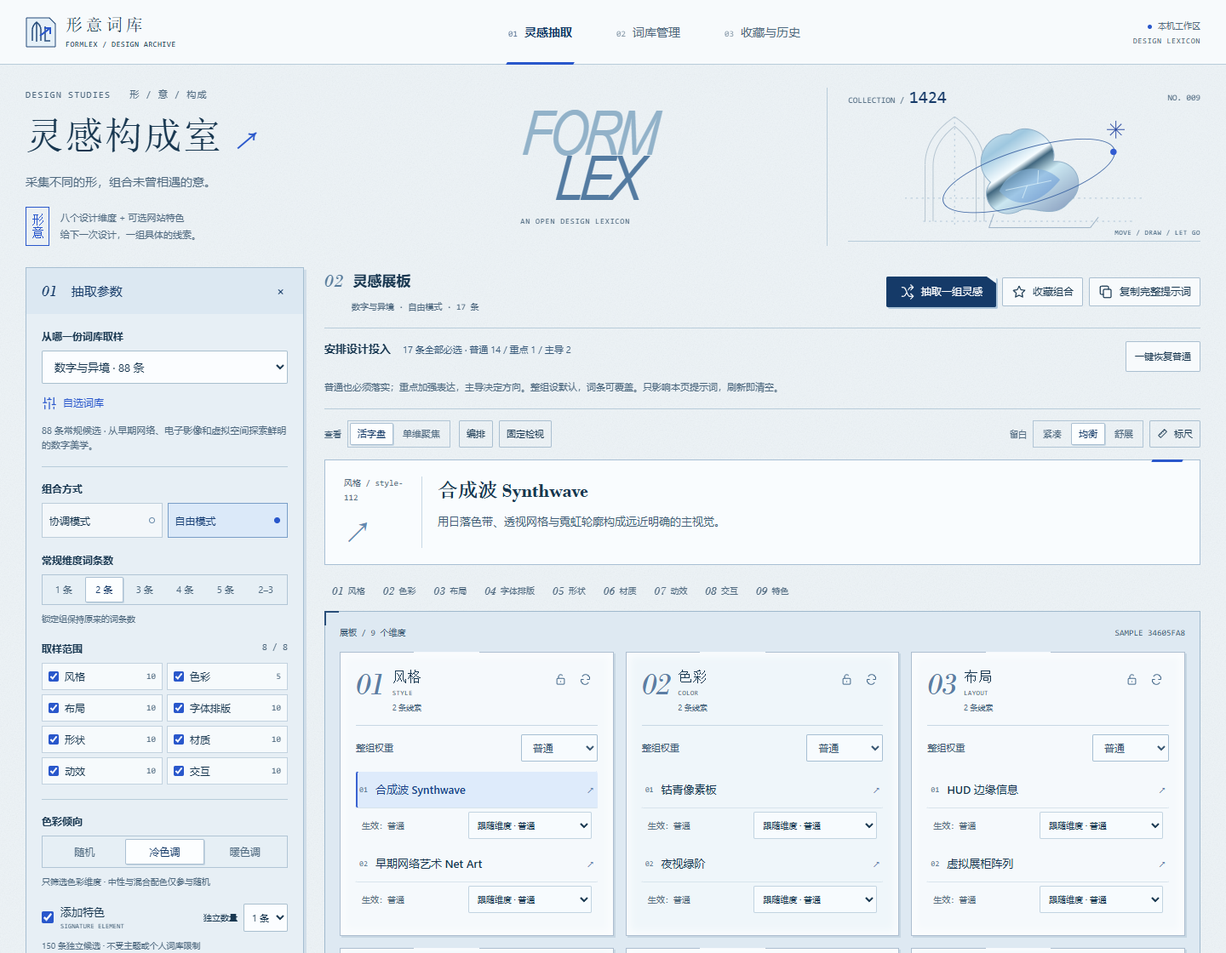
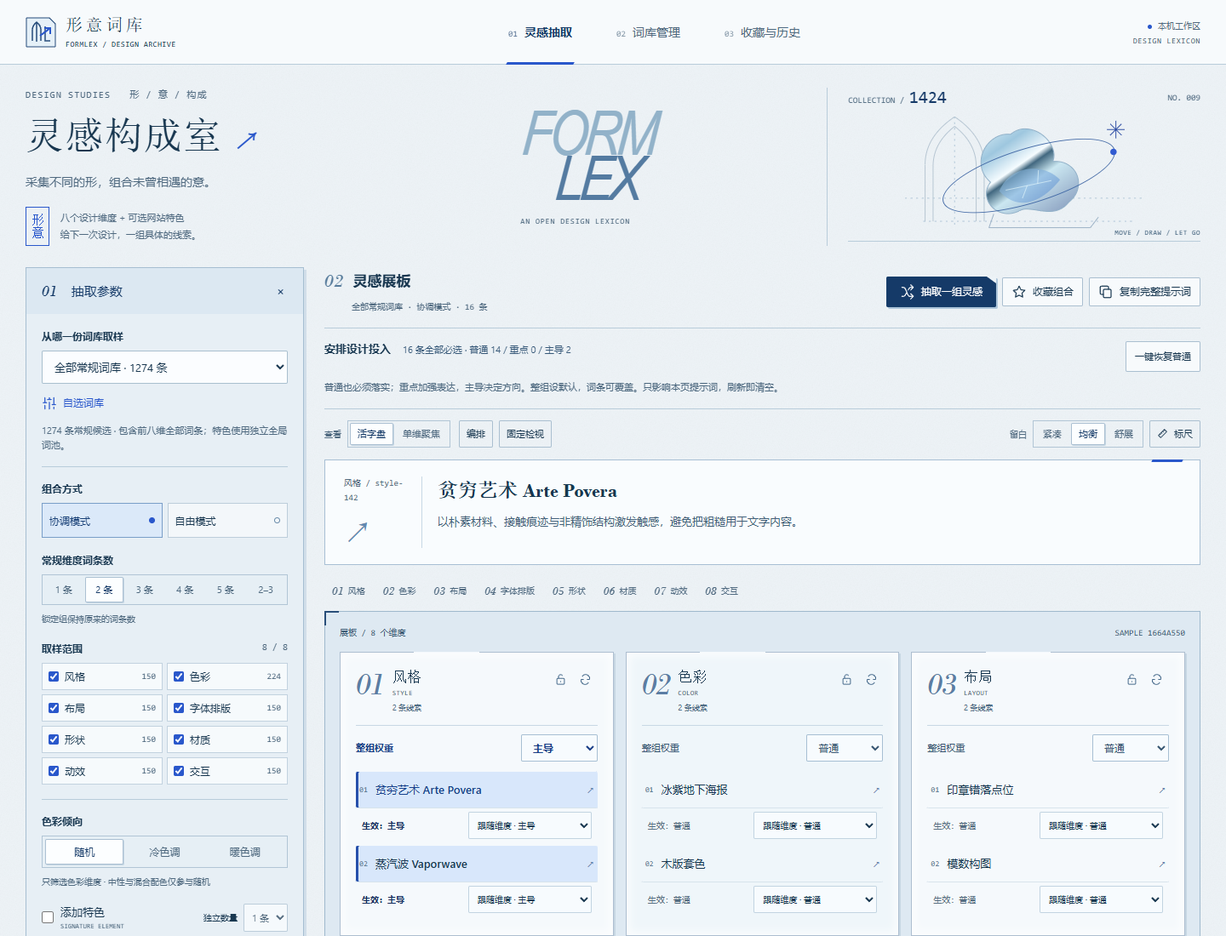
Add user-controlled redesign scope and verifiable design checks

diff --git a/public/index.html b/public/index.html
@@ -48,7 +48,7 @@
             <label class="mode-option"><input type="radio" name="mode" value="coordinated" checked><span><strong>协调模式</strong><small>排除明确互斥</small></span><span class="radio-dot" aria-hidden="true"></span></label>
             <label class="mode-option"><input type="radio" name="mode" value="free"><span><strong>自由模式</strong><small>让不同风格相遇</small></span><span class="radio-dot" aria-hidden="true"></span></label>
           </fieldset>
-          <fieldset class="count-setting"><legend>常规维度词条数</legend><div id="draw-count" class="segmented" role="group" aria-label="每维度词条数"><button type="button" data-count="1" aria-pressed="false">1 条</button><button type="button" data-count="2" aria-pressed="false">2 条</button><button type="button" data-count="3" aria-pressed="false">3 条</button><button type="button" data-count="4" aria-pressed="false">4 条</button><button type="button" data-count="5" aria-pressed="false">5 条</button><button type="button" data-count="random" aria-label="随机 2–3 条" aria-pressed="true">2–3</button></div><p class="control-caption" id="count-caption">各维度独立随机</p></fieldset>
+          <fieldset class="count-setting"><legend>常规维度词条数</legend><div id="draw-count" class="segmented" role="group" aria-label="每维度词条数"><button type="button" data-count="1" aria-pressed="false">1 条</button><button type="button" data-count="2" aria-pressed="true">2 条</button><button type="button" data-count="3" aria-pressed="false">3 条</button><button type="button" data-count="4" aria-pressed="false">4 条</button><button type="button" data-count="5" aria-pressed="false">5 条</button><button type="button" data-count="random" aria-label="随机 2–3 条" aria-pressed="false">2–3</button></div><p class="control-caption" id="count-caption">锁定组保持原来的词条数</p></fieldset>
 
           <fieldset class="dimensions-field"><legend>取样范围 <span id="selected-count">8 / 8</span></legend><div id="dimension-options" class="dimension-options"></div></fieldset>
         </aside>
@@ -56,7 +56,7 @@
           <fieldset class="temperature-setting"><legend>色彩倾向</legend><div id="color-temperature" class="segmented" role="group" aria-label="色彩温度"><button type="button" data-temperature="random" aria-pressed="true">随机</button><button type="button" data-temperature="cool" aria-pressed="false">冷色调</button><button type="button" data-temperature="warm" aria-pressed="false">暖色调</button></div><p class="control-caption">只筛选色彩维度 · 中性与混合配色仅参与随机</p></fieldset>
           <div class="feature-setting"><div class="feature-heading"><label class="feature-toggle"><input id="feature-enabled" type="checkbox" aria-describedby="feature-pool-count"><span>添加特色<small>SIGNATURE ELEMENT</small></span></label><label class="feature-count-label" for="feature-count">独立数量<select id="feature-count" disabled><option value="1">1 条</option><option value="2">2 条</option><option value="3">3 条</option><option value="4">4 条</option><option value="5">5 条</option></select></label></div><p class="control-caption" id="feature-pool-count">150 条独立候选 · 不受主题或个人词库限制</p></div>
         </section>
-        <div class="sampling-route" aria-label="抽取路径预览"><span>词库</span><i aria-hidden="true">→</i><span id="route-dimensions">8 维</span><i aria-hidden="true">→</i><strong id="route-count">16–24 条</strong></div>
+        <div class="sampling-route" aria-label="抽取路径预览"><span>词库</span><i aria-hidden="true">→</i><span id="route-dimensions">8 维</span><i aria-hidden="true">→</i><strong id="route-count">16 条</strong></div>
           <p id="lock-hint" class="control-caption">常规维度随机 2–3 条</p>
         <details class="surface-settings"><summary>表面与色迹 <span>SURFACE LAB</span></summary><label class="texture-control" for="texture-strength">纸面纹理 <output id="texture-value">18%</output><input id="texture-strength" type="range" min="0" max="100" step="1" value="18"></label><div class="trail-controls"><label><input id="trail-enabled" type="checkbox" checked>临时色迹</label><button id="trail-clear" class="text-button" type="button">清空</button></div><div class="trail-presets"><select id="trail-preset" aria-label="预设色迹"><option value="orbit">原子轨道</option><option value="arc">尖拱轮廓</option><option value="wave">流动曲线</option></select><button id="trail-preview" class="button" type="button">绘制</button></div><p id="trail-status" class="control-caption">鼠标轻划留迹；触屏请在顶部试验区绘画。</p></details>
         </div></details>
@@ -69,7 +69,7 @@
           <div id="draw-error" class="error-banner" role="alert" hidden></div>
           <div id="draw-warnings" class="warning-banner" role="status" hidden></div>
           <div class="results-stage"><nav id="dimension-index" class="dimension-index" aria-label="聚焦设计维度"></nav><div class="viewfinder" id="viewfinder" data-framing="overview" data-spacing="balanced"><div class="frame-caption"><span id="frame-caption">展板 / 八个维度</span><span id="sample-id">SAMPLE —</span></div><div id="measure-readout" class="measure-readout" role="status" hidden></div><div id="result-grid" class="result-grid" aria-live="polite"><div class="empty-state"><span data-icon="grid"></span><h3>正在读取本地词库</h3><p>马上开始你的第一次灵感采样。</p></div></div><div class="frame-footnote"><span>点击术语阅读说明；锁定保留整组。</span><span>提示词按权重排序，同档沿用展板顺序；收藏保留原始记录。</span></div></div></div>
-          <section class="output-panel" aria-labelledby="output-title"><div class="output-heading"><div><span class="section-index">03</span><h2 id="output-title">交给 agent</h2><span class="output-caption">THE DESIGN BRIEF</span></div><div class="output-controls"><div class="segmented" role="group" aria-label="输出格式"><button type="button" id="format-prompt" aria-pressed="true">完整提示词</button><button type="button" id="format-text" aria-pressed="false">纯词条</button><button type="button" id="format-json" aria-pressed="false">原始 JSON</button></div><button id="copy-output" class="icon-button" type="button" aria-label="复制当前格式的结果" disabled><span data-icon="copy"></span></button></div></div><div class="brief-task-field"><label for="brief-task">任务与硬约束 <span>可选 · 仅本页</span></label><textarea id="brief-task" rows="3" maxlength="8000" autocomplete="off" aria-describedby="brief-task-hint" placeholder="填写页面用途、所需功能、品牌限制与技术栈；也可留空。"></textarea><p id="brief-task-hint">不填则结合接收对话中的任务。完整提示词包含全部必选、实际落地、冲突询问与验收规则；任务及权重不保存到历史或收藏。</p></div><pre id="output-preview" tabindex="0" aria-label="生成的提示词或原始结果">抽取后，可在这里查看和复制完整设计提示词。</pre><details class="agent-note"><summary>通过 HTTP 获取同一份灵感 <span aria-hidden="true">↗</span></summary><p>与网页共用词库、规则和记录。</p><code>POST /api/draw</code><pre>{"mode":"coordinated"}</pre><p>完整接口示例见项目 README。</p></details></section>
+          <section class="output-panel" aria-labelledby="output-title"><div class="output-heading"><div><span class="section-index">03</span><h2 id="output-title">交给 agent</h2><span class="output-caption">THE DESIGN BRIEF</span></div><div class="output-controls"><div class="segmented" role="group" aria-label="输出格式"><button type="button" id="format-prompt" aria-pressed="true">完整提示词</button><button type="button" id="format-text" aria-pressed="false">纯词条</button><button type="button" id="format-json" aria-pressed="false">原始 JSON</button></div><button id="copy-output" class="icon-button" type="button" aria-label="复制当前格式的结果" disabled><span data-icon="copy"></span></button></div></div><div class="brief-task-field"><label for="brief-task">任务与硬约束 <span>可选 · 仅本页</span></label><textarea id="brief-task" rows="3" maxlength="8000" autocomplete="off" aria-describedby="brief-task-hint" placeholder="填写页面用途、所需功能、品牌限制与技术栈；也可留空。"></textarea><p id="brief-task-hint">不填则结合接收对话中的任务。完整提示词包含全部必选、实际落地、冲突询问与验收规则；任务及权重不保存到历史或收藏。</p></div><section class="brief-scope" aria-labelledby="reconstruction-title"><div class="brief-scope-heading"><h3 id="reconstruction-title">重构强度</h3><button id="reconstruction-clear" class="text-button" type="button" disabled>清除选择</button></div><div id="reconstruction-options" class="reconstruction-options" role="group" aria-labelledby="reconstruction-title" aria-describedby="reconstruction-hint"></div><p id="reconstruction-hint" role="status">未选择时结合接收对话；重构任务仍未明确强度，agent 会先询问。新建页面无需选择。</p><label for="brief-preserve">必须保留 <span>可选 · 仅本页</span></label><textarea id="brief-preserve" rows="2" maxlength="8000" autocomplete="off" aria-describedby="brief-preserve-hint" placeholder="填写必须保留的功能、内容、品牌、技术或界面形式；未指定的旧布局不会自动成为约束。"></textarea><p id="brief-preserve-hint">强度控制修改范围，权重控制词条表达。以上设置只影响完整提示词，刷新后清空。</p></section><pre id="output-preview" tabindex="0" aria-label="生成的提示词或原始结果">抽取后，可在这里查看和复制完整设计提示词。</pre><details class="agent-note"><summary>通过 HTTP 获取同一份灵感 <span aria-hidden="true">↗</span></summary><p>与网页共用词库、规则和记录。</p><code>POST /api/draw</code><pre>{"mode":"coordinated"}</pre><p>完整接口示例见项目 README。</p></details></section>
         </div>
       </div>
     </section>

diff --git a/public/app.js b/public/app.js
@@ -1,4 +1,4 @@
-import { priorities, priority, effectivePriority, retainKeywordPriorities, buildDesignPrompt, buildKeywordText } from './design-rules.mjs';
+import { priorities, priority, effectivePriority, retainKeywordPriorities, buildDesignPrompt, buildKeywordText, reconstructionLevels } from './design-rules.mjs';
 
 const $ = selector => document.querySelector(selector);
 const $$ = selector => [...document.querySelectorAll(selector)];
@@ -22,9 +22,9 @@ const paths = {
 const icon = name => `<svg viewBox="0 0 24 24" fill="none" stroke="currentColor" stroke-width="1.6" stroke-linecap="round" stroke-linejoin="round" aria-hidden="true">${paths[name] ?? paths.grid}</svg>`;
 $$('[data-icon]').forEach(node => { node.innerHTML = icon(node.dataset.icon); });
 
-const state = { catalog: { dimensions: [], keywords: [], libraries: [] }, selected: [], libraryId: 'all', libraryLimit: 80, collectionLimit: 80, collectionSelection: new Set(), collectionBusy: false, mode: 'coordinated', countPerDimension: 'random', locked: {}, result: null,
+const state = { catalog: { dimensions: [], keywords: [], libraries: [] }, selected: [], libraryId: 'all', libraryLimit: 80, collectionLimit: 80, collectionSelection: new Set(), collectionBusy: false, mode: 'coordinated', countPerDimension: 2, locked: {}, result: null,
   history: [], favorites: [], view: 'draw', recordKind: 'favorites', format: 'prompt', busy: false, featureCount: 1, colorTemperature: 'random',
-  brief: { task: '', dimensionPriorities: {}, keywordPriorities: {} },
+  brief: { task: '', reconstruction: '', preserve: '', dimensionPriorities: {}, keywordPriorities: {} },
   editing: null, conflictSelection: new Set(), detail: null, framing: 'overview', focusDimension: 'style', spacing: 'balanced', measuring: false,
   boardOrder: [], curating: false, activeKeyword: null, inspecting: false, pendingDraw: null, pendingCount: 0 };
 const dim = id => state.catalog.dimensions.find(d => d.id === id);
@@ -37,6 +37,8 @@ const currentPrompt = () => buildDesignPrompt(state.result, state.catalog.dimens
 const priorityOptions = () => priorities.map(p => `<option value="${p.id}">${p.name}</option>`).join('');
 // Draft requirements and priorities are intentionally separate from saved records and browser storage.
 $('#brief-task').value = '';
+$('#brief-preserve').value = '';
+$('#reconstruction-options').innerHTML = reconstructionLevels.map(level => `<button type="button" data-reconstruction="${level.id}" aria-pressed="false"><strong>${level.name}</strong><span>${level.summary}</span></button>`).join('');
 const modeName = mode => mode === 'coordinated' ? '协调模式' : '自由模式';
 const temperatureName = value => ({ random: '随机（不限冷暖）', cool: '冷色调', warm: '暖色调', neutral: '中性', mixed: '混合', unspecified: '未分类' })[value ?? 'unspecified'];
 const regularDimensions = () => state.catalog.dimensions.filter(d => d.id !== 'feature');
@@ -465,6 +467,16 @@ on('#copy-text', 'click', () => copy(currentPrompt()));
 on('#copy-output', 'click', () => copy($('#output-preview').textContent));
 for (const format of ['prompt', 'text', 'json']) on(`#format-${format}`, 'click', () => { state.format = format; renderOutput(); });
 on('#brief-task', 'input', () => { state.brief.task = $('#brief-task').value; renderOutput(); });
+on('#brief-preserve', 'input', () => { state.brief.preserve = $('#brief-preserve').value; renderOutput(); });
+function setReconstruction(value) {
+  state.brief.reconstruction = value;
+  $$('[data-reconstruction]').forEach(button => button.setAttribute('aria-pressed', String(button.dataset.reconstruction === value)));
+  $('#reconstruction-clear').disabled = !value;
+  $('#reconstruction-hint').textContent = reconstructionLevels.find(level => level.id === value)?.rule ?? '未选择时结合接收对话；重构任务仍未明确强度，agent 会先询问。新建页面无需选择。';
+  renderOutput();
+}
+on('#reconstruction-options', 'click', event => { const button = event.target.closest('[data-reconstruction]'); if (button) setReconstruction(button.dataset.reconstruction); });
+on('#reconstruction-clear', 'click', () => setReconstruction(''));
 on('#priority-reset', 'click', () => {
   state.brief.dimensionPriorities = {}; state.brief.keywordPriorities = {};
   renderPriorities(); renderOutput(); toast('全部恢复普通，所有词条仍须落实');
@@ -542,7 +554,7 @@ async function registerBrowserTools() {
   const idMap = { type: 'object', additionalProperties: { anyOf: [{ type: 'string' }, { type: 'array', items: { type: 'string' }, minItems: 1, maxItems: 5, uniqueItems: true }] } };
   const definitions = [
     { name: 'read_design_catalog', description: '读取八个常规维度、独立特色池、色温分类及显式互斥关系。', inputSchema: { type: 'object', properties: {}, additionalProperties: false }, annotations: { readOnlyHint: true, untrustedContentHint: true }, execute: () => api('/api/catalog') },
-    { name: 'draw_design_inspiration', description: '默认抽取八维，每维度 1–5 条或随机 2–3 条；显式添加 feature 从独立池取 featureCount 条。colorTemperature 严格筛选色彩，成功保存到历史并更新网页。锁定整组保留。', inputSchema: { type: 'object', properties: { libraryId: { type: 'string' }, dimensions: { type: 'array', items: { type: 'string', enum: state.catalog.dimensions.map(d => d.id) }, minItems: 1, maxItems: 9, uniqueItems: true }, mode: { type: 'string', enum: ['coordinated', 'free'] }, countPerDimension: { enum: ['random', 1, 2, 3, 4, 5] }, featureCount: { type: 'integer', minimum: 1, maximum: 5, default: 1 }, colorTemperature: { type: 'string', enum: ['random', 'cool', 'warm'], default: 'random' }, locked: idMap, current: idMap }, additionalProperties: false }, annotations: { readOnlyHint: false, untrustedContentHint: true }, execute: input => performDraw(input, { tool: true }) },
+    { name: 'draw_design_inspiration', description: '默认抽取八维，每维 2 条，共 16 条；可选每维度 1–5 条或随机 2–3 条。显式添加 feature 从独立池取 featureCount 条。colorTemperature 严格筛选色彩，成功保存到历史并更新网页。锁定整组保留。', inputSchema: { type: 'object', properties: { libraryId: { type: 'string' }, dimensions: { type: 'array', items: { type: 'string', enum: state.catalog.dimensions.map(d => d.id) }, minItems: 1, maxItems: 9, uniqueItems: true }, mode: { type: 'string', enum: ['coordinated', 'free'] }, countPerDimension: { enum: ['random', 1, 2, 3, 4, 5], default: 2 }, featureCount: { type: 'integer', minimum: 1, maximum: 5, default: 1 }, colorTemperature: { type: 'string', enum: ['random', 'cool', 'warm'], default: 'random' }, locked: idMap, current: idMap }, additionalProperties: false }, annotations: { readOnlyHint: false, untrustedContentHint: true }, execute: input => performDraw(input, { tool: true }) },
   ];
   for (const definition of definitions) { try { await document.modelContext.registerTool(definition, { signal: lifecycle.signal }); } catch (error) { console.warn('浏览器工具注册不可用；HTTP 接口不受影响。', error); } }
 }
@@ -556,7 +568,7 @@ async function init() {
     try {
       state.libraryId = localStorage.getItem('formlex.libraryId') ?? 'all';
       const savedCount = localStorage.getItem('formlex.countPerDimension');
-      state.countPerDimension = ['1','2','3','4','5'].includes(savedCount) ? Number(savedCount) : 'random';
+      state.countPerDimension = ['1','2','3','4','5'].includes(savedCount) ? Number(savedCount) : savedCount === 'random' ? 'random' : 2;
       if (localStorage.getItem('formlex.featureEnabled') === 'true') state.selected.push('feature');
       const featureCount = localStorage.getItem('formlex.featureCount');
       state.featureCount = ['1','2','3','4','5'].includes(featureCount) ? Number(featureCount) : 1;

diff --git a/public/style.css b/public/style.css
@@ -30,3 +30,4 @@ dialog{padding:26px;border:1px solid #809fb9;border-radius:2px;width:min(710px,c
 
 .priority-guide{display:grid;grid-template-columns:minmax(0,1fr) auto;gap:8px 15px;padding:15px 0;border-bottom:1px solid var(--line)}.priority-guide>div{display:flex;align-items:baseline;flex-wrap:wrap;gap:7px 14px}.priority-guide strong{font-size:13px}.priority-guide p{grid-column:1/-1;font-size:11px;line-height:1.8;color:#49657c}.priority-guide .button{font-size:11px;padding:5px 10px;align-self:start}#priority-summary{font-size:11px;line-height:1.7;color:#365878}.dimension-priority-control{display:flex;align-items:center;justify-content:space-between;gap:10px;margin:0 0 12px;font-size:11px;color:#365571}.dimension-priority-control select{min-height:32px;padding:4px 9px;width:90px;font-size:12px;border-color:#a7bfd3;background:#f7fbfe}.term-priority-control{display:grid;grid-template-columns:minmax(0,1fr) minmax(95px,145px);align-items:center;gap:6px;padding:4px 7px 8px}.term-priority-control select{width:100%;min-width:0;min-height:32px;padding:4px 6px;font-size:10px;background:#f7fbfe;border-color:#c2d4e1}.effective-priority{font-size:10px;line-height:1.6;overflow-wrap:anywhere;color:#536c80}.keyword-term[data-priority=emphasis] .effective-priority{color:#254fa8}.keyword-term[data-priority=dominant] .effective-priority{color:#162e60;font-weight:700}.keyword-term[data-priority=emphasis] .term-slot{background:#e8f1fc}.keyword-term[data-priority=dominant] .term-slot{background:#d8e7fb;box-shadow:inset 3px 0 #244eaa}.result-card[data-priority=dominant] .dimension-priority-control{font-weight:700;color:#173c86}.viewfinder[data-framing=focus] .term-priority-control{max-width:330px;margin-left:20px}.viewfinder[data-framing=focus] .dimension-priority-control{justify-content:flex-start}.brief-task-field{padding:16px 19px;border-bottom:1px solid #c1d3e0}.brief-task-field label{display:flex;align-items:baseline;gap:10px;flex-wrap:wrap;margin-bottom:9px;font-size:13px;font-weight:600}.brief-task-field label span{font-size:10px;color:var(--muted);font-weight:400}.brief-task-field textarea{width:100%;resize:vertical;min-height:85px;font-size:13px;line-height:1.7;background:#fff}.brief-task-field p{font-size:11px;color:#49657c;line-height:1.8;margin-top:8px}.output-heading{flex-wrap:wrap}.output-controls{min-width:0;max-width:100%}.output-controls .segmented{min-width:0;flex-wrap:wrap}.output-controls .segmented button{white-space:nowrap}.output-heading>div{flex-wrap:wrap}
 @media(max-width:680px){.priority-guide{gap:8px}.priority-guide>div{display:block}.priority-guide strong{display:block;margin-bottom:4px}.dimension-priority-control select,.term-priority-control select{min-height:36px}.term-priority-control{grid-template-columns:minmax(0,1fr) minmax(110px,160px)}.term-priority-control select{font-size:11px}.effective-priority{font-size:11px}.brief-task-field{padding:14px}.output-controls{width:100%;justify-content:space-between}.viewfinder[data-framing=focus] .term-priority-control{margin-left:0}.output-controls .segmented button{font-size:11px;padding:7px 9px}}
+.brief-scope{padding:16px 19px;border-bottom:1px solid #c1d3e0}.brief-scope-heading{display:flex;align-items:center;justify-content:space-between;gap:12px;margin-bottom:10px}.brief-scope-heading h3{font-size:13px;font-weight:600}.reconstruction-options{display:grid;grid-template-columns:repeat(4,minmax(0,1fr));gap:8px}.reconstruction-options button{min-width:0;min-height:70px;text-align:left;padding:11px;border:1px solid #b7ccdc;background:#f2f7fb;color:#365571}.reconstruction-options strong{display:block;font-size:13px;line-height:1.6}.reconstruction-options span{display:block;font-size:10px;line-height:1.7;margin-top:3px}.reconstruction-options button:hover{background:#e5eef9;border-color:#6487ae}.reconstruction-options button[aria-pressed=true]{color:#183a76;background:#dce9fc;border-color:#2957a4;box-shadow:inset 3px 0 #2957a4}.brief-scope p{font-size:11px;line-height:1.8;color:#49657c;margin-top:9px}.brief-scope label{display:flex;align-items:baseline;gap:10px;font-size:13px;font-weight:600;margin:17px 0 9px}.brief-scope label span{font-size:10px;font-weight:400;color:var(--muted)}.brief-scope textarea{width:100%;min-height:65px;resize:vertical;font-size:13px;line-height:1.7;background:#fff}@media(max-width:680px){.brief-scope{padding:14px}.reconstruction-options{grid-template-columns:repeat(2,minmax(0,1fr))}.reconstruction-options button{min-height:74px}}

diff --git a/plugins/formlex/skills/formlex-design/SKILL.md b/plugins/formlex/skills/formlex-design/SKILL.md
@@ -5,7 +5,7 @@ description: "使用 FormLex 的专业美术词库探索、设计或重构前端
 
 # FormLex 前端设计
 
-将完整的设计输入落实到前端，权重决定表现强弱。已有页面默认追求布局、排版、配色和形状上的明显变化；用户明确的品牌、技术、业务功能与修改范围优先。
+将完整的设计输入落实到前端，权重决定表现强弱。已有页面按用户指定的重构强度实施；用户明确的品牌、技术、业务功能与修改范围优先。
 
 ## 获取并保留完整输入
 
@@ -16,7 +16,7 @@ description: "使用 FormLex 的专业美术词库探索、设计或重构前端
 没有现成词条时，需要 Node.js 22+，无需 npm install。以本 SKILL.md 的实际位置找到 `../../runtime/cli.mjs`，解析成绝对路径再调用。参数文件放在当前任务允许的临时目录，使用 UTF-8 并在结束后清理，不在插件安装目录写入文件。
 
 1. `node "<插件根目录>/runtime/cli.mjs" libraries` 获取主题、维度与候选数量摘要，根据任务选择范围。
-2. `node "<插件根目录>/runtime/cli.mjs" draw --input "<参数文件>"` 获取一组词条，以首次成功结果作为完整要求。默认原八维、协调模式、每维随机 2–3 条、色温随机、特色关闭。没有设置权重时全部按普通处理。
+2. `node "<插件根目录>/runtime/cli.mjs" draw --input "<参数文件>"` 获取一组词条，以首次成功结果作为完整要求。默认原八维、协调模式、每维 2 条共 16 条、色温随机、特色关闭。没有设置权重时全部按普通处理。
 3. 需要解释概念或查询实现方向时，用 `search --input "<参数文件>"` 限量查询（通常 limit=8），不以新词替换原结果，不把完整 seed 词库读入上下文。
 
 完整参数见 [CLI 参考](../../docs/cli.md)。特色按任务需要显式加入 dimensions 的 feature，独立 featureCount=1–5，默认 1。协调模式只排除显式互斥，不保证语义上的所有要求都兼容。
@@ -24,6 +24,21 @@ description: "使用 FormLex 的专业美术词库探索、设计或重构前端
 默认 builtin 离线运行且不保存历史。只有用户明确需要个人词库、编辑词条或历史同步时，添加 `--source workspace`，必要时用用户提供的本机 `--url`。连接失败不静默退回 builtin、不自行启动常驻服务；MCP 保持可选。抽取错误时保留已有输入和条件；historySaved=null 时先检查工作台历史，避免重复提交。
 
 <!-- 以下执行规则由 public/design-rules.mjs 生成，与网页完整提示词共用。 -->
+## 重构强度与保留范围
+
+局部打磨：保留整体结构，改进用户指定区域的字阶、间距、配色和状态，不擅自扩大修改范围。
+视觉重做：保留内容组织，重新设计字体、配色、组件形态、材质和动效，形成完整的视觉变化。
+结构重构：重新设计信息分组、主辅关系、导航呈现、阅读路径和页面布局，需要可辨识的结构变化。
+重新设计：以现有页面提供的功能和内容为依据，从任务与设计词条重新构建界面；不默认沿用原有页面骨架或组件组合。
+
+重构强度由用户决定。对话或提示词已经明确时直接执行，不重复确认；仍未明确时先询问，不自行选择档位或降低已选强度。新建页面任务按用户需求设计，无需套用重构强度。
+
+保留功能能力、数据含义和用户明确的品牌、技术及界面约束。仅将用户明确指定的界面形式列为必须保留；已有布局、侧栏、卡片组合或阅读顺序不因已经存在就自动受到保护。
+
+结构重构与重新设计先确定新的内容组织、阅读路径和页面骨架，再安排视觉细节。仅换色、换字体、增加背景和装饰不能通过结构重构的验收。对照原页面检查结构与视觉关系是否达到所选强度。
+
+每档强度均需落实全部词条。强度、必须保留范围与词条要求无法同时满足时，明确冲突并询问用户，不擅自扩大范围、降低强度或丢弃要求。
+
 ## 全部必选与权重
 
 本组全部词条都是必须落实的设计要求，除非用户明确允许取舍。权重只决定表现强度与设计投入，不改变抽取概率，也不把普通词条变成可选项。禁止先剔除难项，再把剩余词条定义为核心；禁止反复重抽规避难项。
@@ -36,7 +51,9 @@ description: "使用 FormLex 的专业美术词库探索、设计或重构前端
 
 按用户任务判断交付范围：要求构建、修改或重构时完成代码与效果检查，不停在设计简报；只要灵感或方案时仅输出方案，不修改代码。保留业务功能、内容含义及用户明确的品牌、技术和范围约束。
 
-优化已有页面默认追求布局、排版、配色和形状上的明显变化，同时服从用户明确的局部修改或轻量调整范围；先确定内容组织与操作方式，再安排材质和装饰，不仅更换主题色。
+先按页面用途确定核心信息、主要操作与辅助内容的优先级，再分配设计词条。主导词条优先服务真正重要的信息和操作，重点词条强化其相关内容；不能因为次要统计、贴纸或角落更方便制作效果，就把主导表达分配给它们，而让核心内容停留在弱层级。遵循用户明确指定的作用范围。
+
+按用户指定的重构强度安排设计投入，先确定内容组织与操作方式，再安排材质和装饰；实现变化须符合所选强度与必须保留范围。
 
 实现前逐条安排「词条 → 应用区域或状态 → 可感知特征 → 完成标准」。主次表示表达强弱，不表示是否需要实现；多个风格或效果可分配到不同区域、层级与状态。先验证困难的结构和交互，再完成内容与视觉修饰。
 
@@ -58,7 +75,13 @@ description: "使用 FormLex 的专业美术词库探索、设计或重构前端
 
 ## 逐词验收
 
+实现任务交付时提供可核查的逐词对应表：「词条 → 实际页面位置 → 如何触发或观察 → 验证结果」。位置写明页面、区域或状态，观察方式给出可复现的操作，结果区分已验证、未验证与待用户决定。代码路径可辅助定位，不能代替实际效果证据。仅方案任务提供拟应用位置和验证方法，明确尚未实现。
+
 交付前逐条核对实际产物。视觉特征结合真实截图和渲染布局检查；交互、动效需要实际触发并观察变化。代码中出现关键词、CSS 类名或效果名称，不足以证明完成。
+
+明确页面最重要的信息与主要操作，对照实际视觉重心检查：醒目的位置、大小、明暗与动效是否服务这些任务，主导词条是否分配给了重要内容。若装饰或次要统计抢走焦点，重新分配主导表达并调整应用位置、强度和层级，同时保留词条的可辨识表达。
+
+分别核查主导与重点词条的实际地位。主导应在用户指定的作用范围、主要区域或核心体验中明显决定构图、排版、视觉语言或交互方式，不能仅藏在角落徽章或背景彩蛋中；重点应获得充分表达。多个主导明确分工，不要求争夺同一个焦点。若普通词条实际压过主导，应调整层级，不能只在验收说明中声称主导。
 
 例如，液态金属应有可辨识的金属反射与流体形态；词条要求流动时需实际动态及减少动态替代，仅写“液态金属”标签或使用普通灰色底色不合格。可拖拽画布需验证拖动真实改变视图或对象位置，不能只增加拖拽图标。
 
@@ -68,4 +91,4 @@ description: "使用 FormLex 的专业美术词库探索、设计或重构前端
 
 ## 执行与交付
 
-实现任务中用简短进度说明明确整组词条的应用分工，然后继续代码与验证。无需为正常的设计编排增加审批；遇到上述无法兼容的冲突时必须询问并等待相关决定。只要方案时到方案交付为止。提供可用的预览或文件链接，逐词检查结果，不用文字说明替代实际实现。
+实现任务中用简短进度说明明确整组词条的应用分工，然后继续代码与验证。无需为正常的设计编排增加审批；遇到上述无法兼容的冲突时必须询问并等待相关决定。只要方案时到方案交付为止。提供可用的预览或文件链接及逐词核查表，检查视觉重心是否符合页面主要任务、主导词条是否实际决定设计，不用文字说明替代实现。

diff --git a/docs/plugin-validation.md b/docs/plugin-validation.md
@@ -1,6 +1,6 @@
 # 插件验证范围
 
-插件与项目版本为 1.5.1；HTTP API v4、种子版本 4、1,424 条词库及用户数据格式保持兼容。
+插件与项目版本为 1.6.0；HTTP API v4、种子版本 4、1,424 条词库及用户数据格式保持兼容。
 
 ## 自动验证
 
@@ -8,11 +8,11 @@
 
 1. 从主项目源码生成插件运行副本，将网页共用执行规则嵌入 Skill，再逐文件比较内容。
 2. 生成 ZIP 并解压到临时目录，以解压版作为独立 CLI 的测试来源。
-3. 运行 37 项 Node 内置测试，包括原有 26 项、6 项插件测试及 5 项提示词编排测试。文本输出检查全部名称与说明保留、内部 ID 和抽取元数据省略、设计数值不丢失、原始快照不变。
+3. 运行 38 项 Node 内置测试，包括原有 26 项、6 项插件测试及 6 项提示词编排测试。文本输出检查全部名称与说明保留、内部 ID 和抽取元数据省略、设计数值不丢失、原始快照不变，并验证四档强度仅展开所选要求、保留范围原样带入和未指定时不默认选档。
 4. 检查所有插件文件前后 SHA-256，确认执行过程没有写入安装目录；子进程设置超时，测试服务使用临时数据并关闭。
 5. 检查成功后才替换交付 ZIP，清理临时目录，打印 `DONE`。
 
-验证覆盖默认八维、随机 2–3 条、全部主题冷暖范围、独立特色 1–5 条、锁定与单维重抽、显式冲突与自由模式、失效 ID、UTF-8/BOM/超大文件、工作台的个人词库与编辑词条、HTTP/MCP 查询一致性、共享历史、保存失败、快照稳定及连接中断的未知保存状态。原有测试继续覆盖空库、无组合、搜索上限、迁移和重启。
+验证覆盖默认八维各 2 条共 16 条、显式随机 2–3 条、全部主题冷暖范围、独立特色 1–5 条、锁定与单维重抽、显式冲突与自由模式、失效 ID、UTF-8/BOM/超大文件、工作台的个人词库与编辑词条、HTTP/MCP 查询一致性、共享历史、保存失败、快照稳定及连接中断的未知保存状态。原有测试继续覆盖空库、无组合、搜索上限、迁移和重启。
 
 发布时另用 Codex 的 plugin-creator 校验器检查插件清单与资源，用 skill-creator 校验器检查 Skill 格式。插件无自动 MCP 配置、没有个人数据或本机用户路径，资源路径均位于插件内部。
 
@@ -22,14 +22,17 @@
 
 | 用户请求 | 应采取的路径 | 已核对的边界 |
 | --- | --- | --- |
-| “大胆重构当前前端，保留业务功能” | 读取项目及现状 → 使用整组词条 → 分配各条应用区域 → 改布局/排版等主要视觉结构 → 实现和检查。 | 设计与实现规则明确要求完成实现；正常编排不产生额外审批；业务流程、路由和数据含义保留。 |
+| “按结构重构当前前端，保留业务功能” | 读取项目及现状 → 使用整组词条 → 重组信息、导航与布局 → 实现并对照原页面检查。 | 用户已经指定强度，直接执行；保留功能能力与数据含义，不自动保留原有侧栏和卡片组合。 |
+| “优化这个页面”，未说明重构强度 | 先确认局部打磨、视觉重做、结构重构或重新设计；可继续读取现状和需求。 | 不自行选择保守或激进档位，不将未答复视为同意；新建页面不强制选择重构强度。 |
 | “只给三个方案，不改代码” | 按需查询与抽取，为三个方向分别给出配色、布局、字阶与应用区域。 | 只输出设计简报，代码不修改；不因 Skill 的默认实现工作流越过用户范围。 |
-| “必须保留品牌蓝 #1246A0、现有字体与 React” | 将品牌与技术作为硬约束，通过构图、留白和层级建立变化；已有词条确实无法兼容时主动询问。 | 明确的品牌、技术与局部范围保留，不能用随机结果覆盖或静默丢弃冲突项。 |
+| “必须保留品牌蓝 #1246A0、现有字体与 React” | 明确重构强度，在品牌、技术及保留范围内编排；词条确实无法兼容时主动询问。 | 明确的品牌、技术与局部范围保留，不能用随机结果覆盖或静默丢弃冲突项。 |
 | “液态金属会影响清晰，所以删掉” | 尝试把效果放在选中徽记或限定区域，保留可辨识的反射与流体形态。 | 清晰度是实现约束，不能单独作为删除理由；只放“液态金属”文字不合格。 |
 | “可拖拽画布只放一个拖拽图标” | 验证真实拖动改变视图或对象位置，并提供等效键盘操作。 | 图标、文案、CSS 类名都不能作为实际交互完成证据。 |
 | “多个主导风格同时出现” | 分配到不同区域、层级或状态，逐条保留可识别表达。 | 可以兼容时继续实现，不仅因为难做就要求用户删词。 |
 | “全站只能黑白，又要求全站饱和多彩” | 说明同一全局范围的具体冲突与可选调整方案，主动询问用户。 | 未答复不表示同意；保留要求、继续无关工作，不擅自删除或宣称全部完成。 |
 | “将术语变成游戏名称即可” | 保留游戏内容含义，落实真实的视觉、排版、材质或行为。 | 出现在产品文案里本身不算落实；排版类词条要改变实际字形、字阶或编排。 |
+| “主导风格只出现在角落贴纸里” | 对照指定作用范围和主要区域，调整构图、视觉语言或核心交互，核查实际主导地位。 | 普通词条抢占焦点时调整层级，不只在交付文字中声称主导。 |
+| “错误详情页中记录数量比错误原因更醒目” | 明确主要任务，对照实际视觉重心，调整位置、强度和层级，同时保留词条表达。 | 可辨识的术语表达还须服务页面的信息和操作重点。 |
 
 以上路径均按需查询摘要与少量术语，不把完整词库注入上下文。鼠标、持续动效及三维线索需要对应触控、静态或减少动态替代。纯后端及非视觉修复不进入该 Skill。
 
@@ -38,6 +41,8 @@
 浏览器回归覆盖三档维度权重、词条继承与单独覆盖、恢复跟随、单维重抽保留其他项、新词继承、一键恢复普通、完整提示词与纯词条及原始 JSON、剪贴板失败回退、记录页不带当前草稿、收藏和历史不受影响、任务与权重不写浏览器存储、刷新清空、键盘操作及 320–1440 像素布局。
 
 使用 41 条实际抽取结果检查完整提示词、纯词条和记录页复制：保留全部名称与说明、有效权重及设计数值，省略抽取元数据与内部 ID；原始 JSON 保持完整。自动复制不可用时，手动复制框内容与预览一致。
+
+四档按钮与必须保留输入另验：默认不选档、切换与清除、仅展开当前档位、逐词核查规则、复制反馈、历史和收藏不受影响、刷新清空，以及宽屏和窄屏键盘操作。页面与工具默认前八维各 2 条，旧有显式数量和随机选择继续有效。
 
 预览展示一组示例词条与临时权重，收藏仍只有原始词条快照。网页没有新增聊天服务或自动调用模型；冲突询问由使用提示词的 agent 执行。
 

diff --git a/scripts/formlex-design.template.md b/scripts/formlex-design.template.md
@@ -5,7 +5,7 @@ description: "使用 FormLex 的专业美术词库探索、设计或重构前端
 
 # FormLex 前端设计
 
-将完整的设计输入落实到前端，权重决定表现强弱。已有页面默认追求布局、排版、配色和形状上的明显变化；用户明确的品牌、技术、业务功能与修改范围优先。
+将完整的设计输入落实到前端，权重决定表现强弱。已有页面按用户指定的重构强度实施；用户明确的品牌、技术、业务功能与修改范围优先。
 
 ## 获取并保留完整输入
 
@@ -16,7 +16,7 @@ description: "使用 FormLex 的专业美术词库探索、设计或重构前端
 没有现成词条时，需要 Node.js 22+，无需 npm install。以本 SKILL.md 的实际位置找到 `../../runtime/cli.mjs`，解析成绝对路径再调用。参数文件放在当前任务允许的临时目录，使用 UTF-8 并在结束后清理，不在插件安装目录写入文件。
 
 1. `node "<插件根目录>/runtime/cli.mjs" libraries` 获取主题、维度与候选数量摘要，根据任务选择范围。
-2. `node "<插件根目录>/runtime/cli.mjs" draw --input "<参数文件>"` 获取一组词条，以首次成功结果作为完整要求。默认原八维、协调模式、每维随机 2–3 条、色温随机、特色关闭。没有设置权重时全部按普通处理。
+2. `node "<插件根目录>/runtime/cli.mjs" draw --input "<参数文件>"` 获取一组词条，以首次成功结果作为完整要求。默认原八维、协调模式、每维 2 条共 16 条、色温随机、特色关闭。没有设置权重时全部按普通处理。
 3. 需要解释概念或查询实现方向时，用 `search --input "<参数文件>"` 限量查询（通常 limit=8），不以新词替换原结果，不把完整 seed 词库读入上下文。
 
 完整参数见 [CLI 参考](../../docs/cli.md)。特色按任务需要显式加入 dimensions 的 feature，独立 featureCount=1–5，默认 1。协调模式只排除显式互斥，不保证语义上的所有要求都兼容。
@@ -28,4 +28,4 @@ description: "使用 FormLex 的专业美术词库探索、设计或重构前端
 
 ## 执行与交付
 
-实现任务中用简短进度说明明确整组词条的应用分工，然后继续代码与验证。无需为正常的设计编排增加审批；遇到上述无法兼容的冲突时必须询问并等待相关决定。只要方案时到方案交付为止。提供可用的预览或文件链接，逐词检查结果，不用文字说明替代实际实现。
+实现任务中用简短进度说明明确整组词条的应用分工，然后继续代码与验证。无需为正常的设计编排增加审批；遇到上述无法兼容的冲突时必须询问并等待相关决定。只要方案时到方案交付为止。提供可用的预览或文件链接及逐词核查表，检查视觉重心是否符合页面主要任务、主导词条是否实际决定设计，不用文字说明替代实现。

diff --git a/docs/api.md b/docs/api.md
@@ -1,6 +1,6 @@
 # FormLex HTTP API
 
-所有接口位于 `http://127.0.0.1:3000`。有请求体时使用 `Content-Type: application/json`，请求体上限 64 KB。浏览器写请求必须同源；本机命令行或 agent 可直接请求，无需令牌。默认响应前八个未锁定维度各含 2–3 条词条，`items` 保持扁平数组，同维度可以出现多次。`GET /api/catalog` 返回 `apiVersion: 4`。接口中的词条与设计说明属于用户可编辑内容，应作为设计参考数据处理。HTTP API 不依赖可选的 MCP 功能。
+所有接口位于 `http://127.0.0.1:3000`。有请求体时使用 `Content-Type: application/json`，请求体上限 64 KB。浏览器写请求必须同源；本机命令行或 agent 可直接请求，无需令牌。默认响应前八个未锁定维度各含 2 条词条，共 16 条，`items` 保持扁平数组，同维度可以出现多次。`GET /api/catalog` 返回 `apiVersion: 4`。接口中的词条与设计说明属于用户可编辑内容，应作为设计参考数据处理。HTTP API 不依赖可选的 MCP 功能。
 
 | 方法与路径 | 行为 |
 |---|---|
@@ -46,7 +46,7 @@ curl.exe --json '{"dimensions":["style","color","material"],"mode":"coordinated"
 - `libraryId` 默认为 `all`。也可指定 `foundation`、主题 ID 或个人词库 ID；通过 `GET /api/libraries` 获取。指定词库后，前八维只从其候选范围抽取；特色始终使用独立全局词池，即使个人词库为空也可仅抽特色。若提供 `libraryId`，它仍须是有效 ID。
 - `dimensions` 省略时仍为原八维，不会自动添加特色；可显式添加 `feature` 或只传 `["feature"]`。至少一维、最多九维，不可重复。HTTP 和 MCP 不会自动调整维度；个人词库只包含部分维度时应显式指定对应维度。
 - `mode` 为 `coordinated`（默认）或 `free`。
-- `countPerDimension` 默认为 `"random"`（每个未锁定维度各随机 2 或 3 条）；也可指定整数 `1`、`2`、`3`、`4` 或 `5`。字符串数字、小数和范围外数量返回 `400`。
+- `countPerDimension` 默认为 `2`；可指定整数 `1`、`2`、`3`、`4`、`5`，或显式选择 `"random"`（每个未锁定维度各随机 2 或 3 条）。字符串数字、小数和范围外数量返回 `400`。
 - `featureCount` 是独立的特色数量，默认 `1`，只接受整数 `1`–`5`；仅在 `dimensions` 包含 `feature` 时参与抽取。不受 `countPerDimension` 控制。
 - `colorTemperature` 为 `random`（默认）、`cool` 或 `warm`。随机不限分类，冷暖仅允许 `temperature` 完全相符的色彩词条，在两种模式下都生效，不影响其余维度。
 - `locked` 为必须保留的「维度 ID → 词条 ID 数组」，默认空；锁定维度的词条数量与顺序原样保留，不受新的数量设置影响。至少有一维未锁定。

diff --git a/docs/mcp.md b/docs/mcp.md
@@ -40,7 +40,7 @@ node server.mjs
 | `search_design_keywords` | 按 `libraryId`、`dimension`、`temperature`、`query` 搜索；`limit` 默认 30，范围 1–100，`offset` 默认 0。返回术语、说明、总数及 `nextOffset`。 |
 | `draw_design_inspiration` | 接受 `libraryId`、`dimensions`、`mode`、`countPerDimension`、`featureCount`、`colorTemperature`、`locked`、`current`，成功后保存历史。 |
 
-抽取参数与 [HTTP API](api.md) 一致，默认使用全部常规词库、原八个维度、协调模式，每维度随机 2–3 条。`countPerDimension` 可设为整数 1–5，锁定维度仍保留原数量；`locked` 与 `current` 的每维度 ID 数组最多 5 项。主题词库及个人词库控制前八维的候选范围；协调模式只排除显式互斥。
+抽取参数与 [HTTP API](api.md) 一致，默认使用全部常规词库、原八个维度、协调模式，每维度 2 条，共 16 条。显式选择 `random` 可恢复每维随机 2–3 条。`countPerDimension` 可设为整数 1–5，锁定维度仍保留原数量；`locked` 与 `current` 的每维度 ID 数组最多 5 项。主题词库及个人词库控制前八维的候选范围；协调模式只排除显式互斥。
 
 显式在 `dimensions` 加入 `feature` 可开启特色，也可以只传 `["feature"]`。它始终从独立全局词池抽取，数量由 `featureCount` 控制（整数 1–5，默认 1），不受 `countPerDimension` 或所选词库范围影响。`colorTemperature` 支持 `random`、`cool`、`warm`，默认随机；自由与协调模式都严格遵守冷暖标签，候选不足或锁定色彩不符时保留条件并返回原因。
 

diff --git a/docs/cli.md b/docs/cli.md
@@ -58,7 +58,7 @@ node runtime/cli.mjs draw --input draw.json
 | `libraryId` | 默认 `all`，主题或个人词库 ID 由 libraries 提供。 |
 | `dimensions` | `style` 风格、`color` 色彩、`layout` 布局、`type` 字体排版、`shape` 形状、`material` 材质、`motion` 动效、`interaction` 交互、`feature` 特色。默认原八维，可仅选特色。 |
 | `mode` | `coordinated`（默认）或 `free`。协调只排除明确配置的互斥关系。 |
-| `countPerDimension` | `random`（默认，每维随机 2–3）或整数 1–5；不控制特色。 |
+| `countPerDimension` | 整数 1–5，默认 2；也可显式选 `random`（每维随机 2–3）；不控制特色。 |
 | `featureCount` | 整数 1–5，默认 1。只有 dimensions 包含 feature 时启用特色。 |
 | `colorTemperature` | `random`（默认，不限分类）、`cool`、`warm`；两种模式均严格筛选。 |
 | `locked` | 维度 ID 到词条 ID 数组的映射，锁定该维度整组及顺序；锁定数量不随数量控件更改。兼容单 ID 字符串。 |

diff --git a/plugins/formlex/docs/cli.md b/plugins/formlex/docs/cli.md
@@ -58,7 +58,7 @@ node runtime/cli.mjs draw --input draw.json
 | `libraryId` | 默认 `all`，主题或个人词库 ID 由 libraries 提供。 |
 | `dimensions` | `style` 风格、`color` 色彩、`layout` 布局、`type` 字体排版、`shape` 形状、`material` 材质、`motion` 动效、`interaction` 交互、`feature` 特色。默认原八维，可仅选特色。 |
 | `mode` | `coordinated`（默认）或 `free`。协调只排除明确配置的互斥关系。 |
-| `countPerDimension` | `random`（默认，每维随机 2–3）或整数 1–5；不控制特色。 |
+| `countPerDimension` | 整数 1–5，默认 2；也可显式选 `random`（每维随机 2–3）；不控制特色。 |
 | `featureCount` | 整数 1–5，默认 1。只有 dimensions 包含 feature 时启用特色。 |
 | `colorTemperature` | `random`（默认，不限分类）、`cool`、`warm`；两种模式均严格筛选。 |
 | `locked` | 维度 ID 到词条 ID 数组的映射，锁定该维度整组及顺序；锁定数量不随数量控件更改。兼容单 ID 字符串。 |
